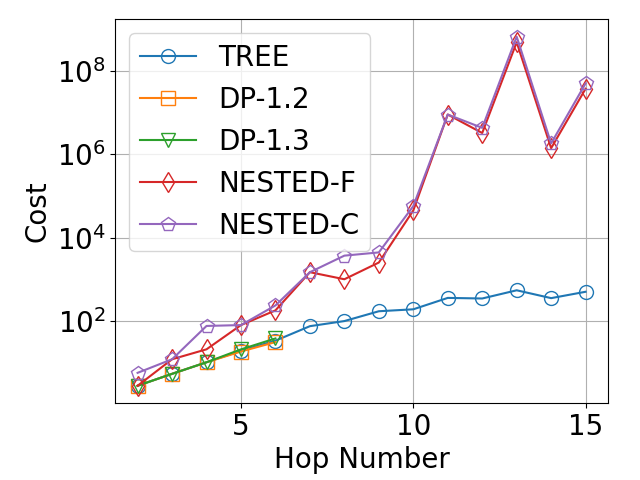
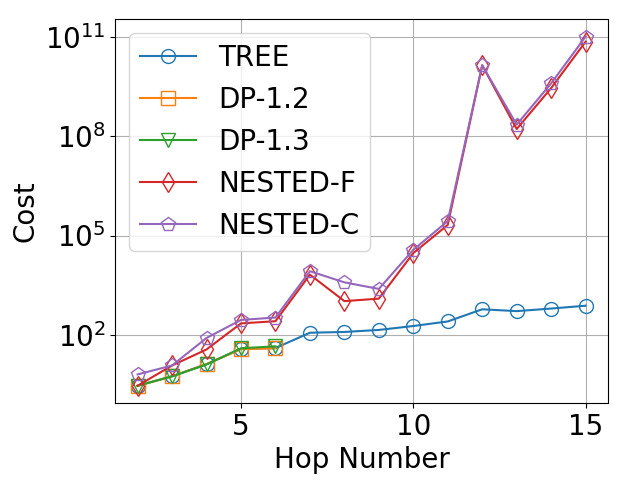
path exp test finished

diff --git a/src/eval_path_infocom.py b/src/eval_path_infocom.py
@@ -725,7 +725,7 @@ def test_binary_succ_all(fth, exp_num, gate=qu.GDP):
 
 
 
-def test_werner_cost(fth, exp_num, gate=qu.GWP):
+def test_werner_cost(fth, exp_num, gate=qu.GWH):
     if gate == qu.GWP:
         gate_desc = "P"
     elif gate == qu.GWH:
@@ -1780,9 +1780,9 @@ if __name__ == '__main__':
     exp_num = 1
 
     # 3 figures for different fth
-    test_binary_cost_all(0.9, exp_num)
-    test_binary_cost_all(0.99, exp_num)
-    test_binary_cost_all(0.9999, exp_num)
+    # test_binary_cost_all(0.9, exp_num)
+    # test_binary_cost_all(0.99, exp_num)
+    # test_binary_cost_all(0.9999, exp_num)
 
     # 3 figures for different noise
     # test_binary_succ_all(0.9, exp_num, gate=qu.GDP)    
@@ -1791,9 +1791,9 @@ if __name__ == '__main__':
     # test_binary_succ_all(0.9, exp_num, gate=qu.GDP_LOSL)
 
     # 3 figures for different fth (Werner)
-    # test_werner_cost(0.85, exp_num)
-    # test_werner_cost(0.9, exp_num)
-    # test_werner_cost(0.95, exp_num)
+    test_werner_cost(0.85, exp_num)
+    test_werner_cost(0.9, exp_num)
+    test_werner_cost(0.95, exp_num)
 
     # 3 figures for different noise (Werner)
     # test_werner_succ does not differ much, test_werner_cost is enough
